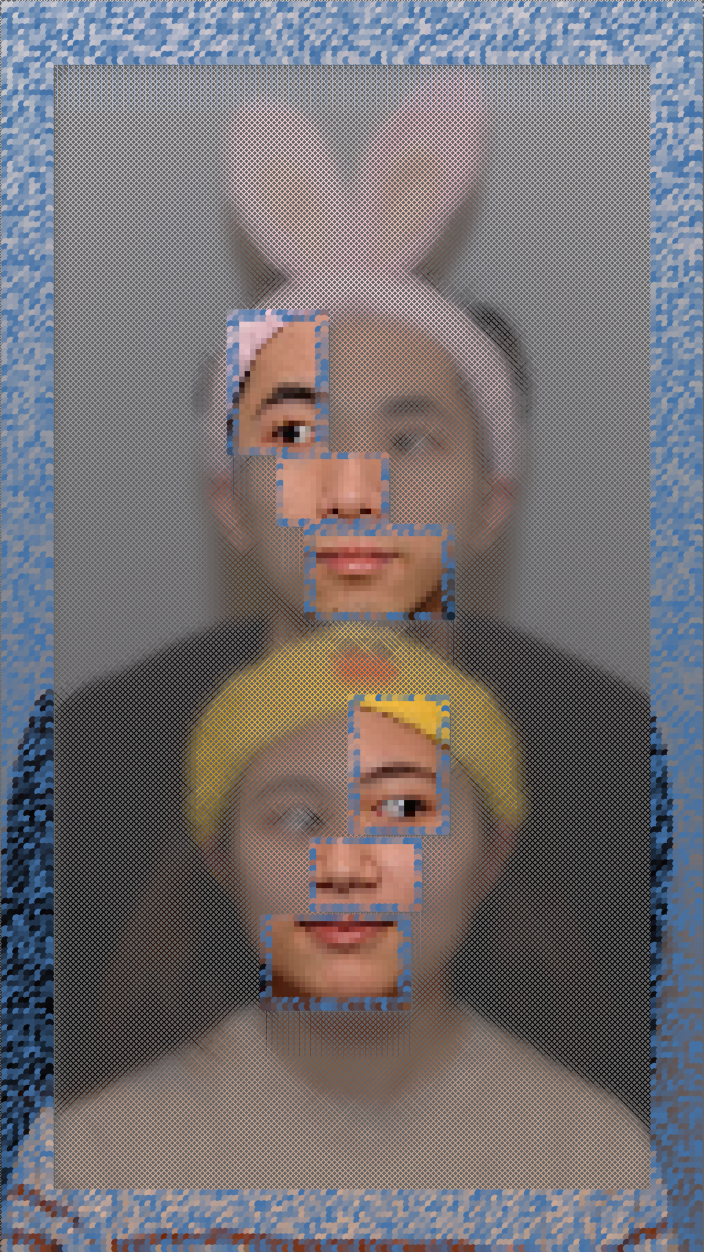
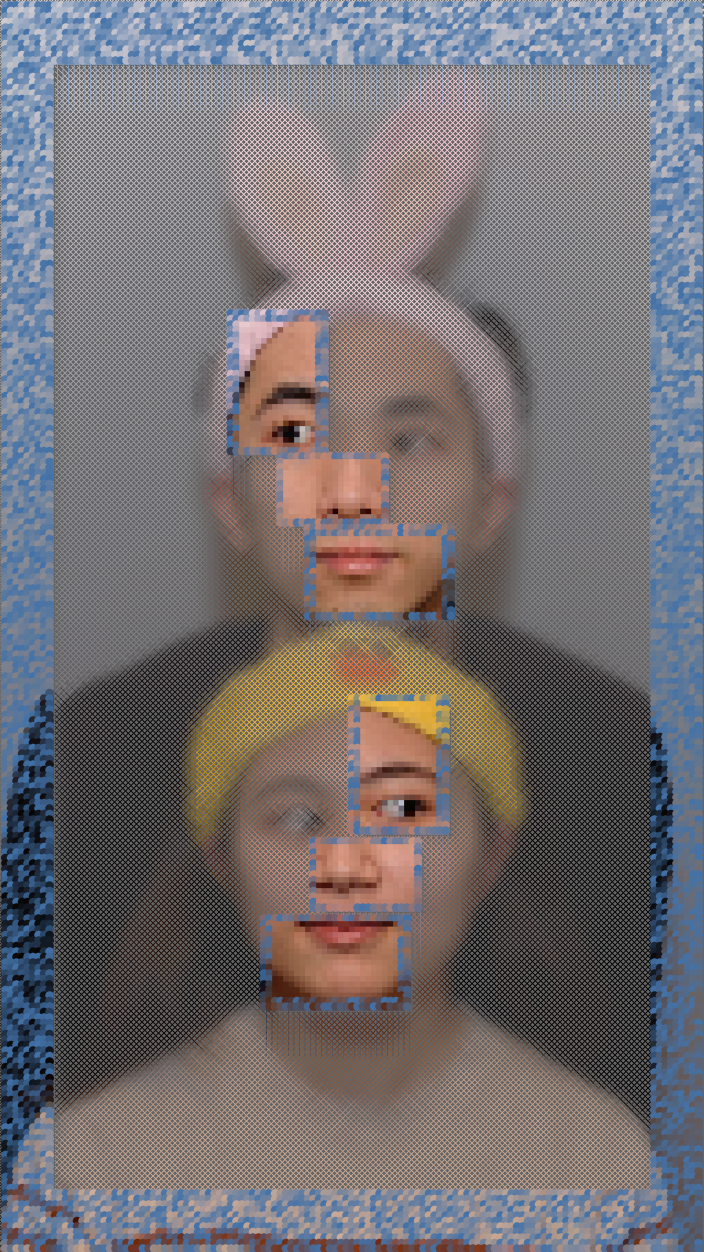
Finalized the code and the README

diff --git a/sketch.js b/sketch.js
@@ -2,9 +2,9 @@ let sourceImg=null;
 let maskImg=null;
 let renderCounter=0;
 
-let sourceFile = "input_1.jpg";
-let maskFile   = "mask_1.png";
-let outputFile = "artwork_1.png";
+let sourceFile = "input_3.jpg";
+let maskFile   = "mask_3.png";
+let outputFile = "artwork_3.png";
 
 function preload() {
   sourceImg = loadImage(sourceFile);
@@ -42,18 +42,7 @@ function draw () {
         line(x+20, y, x, y+20);  
       }
 
-      // else if (mask[0] >= 128 && mask[0] < 203) {
-      //   tile_width = 5.5;
-      //   tile_height = 5.5;
-      //   stroke(80);
-      //   strokeWeight(0.1);
-      //   rect(x, y, tile_width, tile_height);
-      //   line(x + 2.5, y, x + 2.5, y+50); 
-      // }
-  
       else if (mask[0] >= 212 && mask[0] < 255) {
-        // tile_width = 5.5;
-        // tile_height = 5.5;
         stroke(80);
         strokeWeight(0.1);
         ellipse(x, y, tile_width, tile_height);
@@ -61,8 +50,6 @@ function draw () {
       }
 
       else if (mask[0] >= 203 && mask[0] < 212) {   ////// this is the frames
-        // tile_width = 5.5;
-        // tile_height = 5.5;
         stroke(random_color);
         strokeWeight(0.1);
         push()
@@ -70,13 +57,10 @@ function draw () {
         fill(random_color)
         ellipse(x, y, tile_width+3, tile_height+3);
         pop()
-        //rect(x, y, tile_width, tile_height);
         line(x + 2.5, y, x + 2.5, y+50); 
       }
 
-      else {
-        // tile_width = 5.5;                           /// rects inside the frame
-        // tile_height = 5.5;
+      else {                                        /// rects inside the frame                        
         push();
         rectMode(CENTER);
         rect(x, y, tile_width, tile_height);
@@ -101,7 +85,7 @@ function draw () {
     console.log("Done!")
     noLoop();
     // uncomment this to save the result
-    // saveArtworkImage(outputFile);
+    saveArtworkImage(outputFile);
   }
 }
 

diff --git a/README.md b/README.md
@@ -1,3 +1,8 @@
-## Creative Coding 2: Custom Pixel
+## Creative Coding 2: Custom Pixel Final - Siblings	
 
-I found that there was a small gap in between my initial framing and the highlighted part of the facial features. With Tom and Phoebe's help, I've managed to solve this problem. I've changed the color of the frames to make the highlighted parts more obvious. I've also deleted one of the gray shades because I found that it didn't have much effect on the whole image. I also realized that I didn't have to make a 'let' variable for each of my if/else statements and changed all the tile sizes to 5.5. 
+I chose 'siblings' as my theme because my brothers are dear to me and I think it's a nice way to remind people about their family; the blood that runs through them; and our genes. My older brother and I are one year and a half apart, and growing up with him, many people have told us that we look very similar. I was more intruiged by our resemblence to each other when my younger brother was introduced to the world and I found that, as he grew up, he looked quite different from us. However, my younger brother is unfortunately back in Taiwan or I would have loved to include him in this project to contrast between the differences and similarities in our facial features.
+
+For my masks, I used five shades of gray. Each identifies the different layers of the original image: the background, the clothes, the hair and face, the frame of the highlighted parts, and the highlighted features of our face. Only artwork 2 is different - which is an image of the both of us - and only has three layers: the background, the frame of the highlighted feature, and the highlighted feature. I did this because I thought it was easier to see our similarites by comparing the blurry parts and the clearer parts of our faces. I like to think of the final output as all three artworks combined because then you can see a nice connection between all the images.
+
+The shapes of the pixels are all pretty simple and they consist of a mix of crosslines, ellipses, and rectangles. I used the lines for the background; a mix of lines and ellipses for the body; and rectangle tiles for the highlighted features because I thought that made it the clearest to see. 
+
